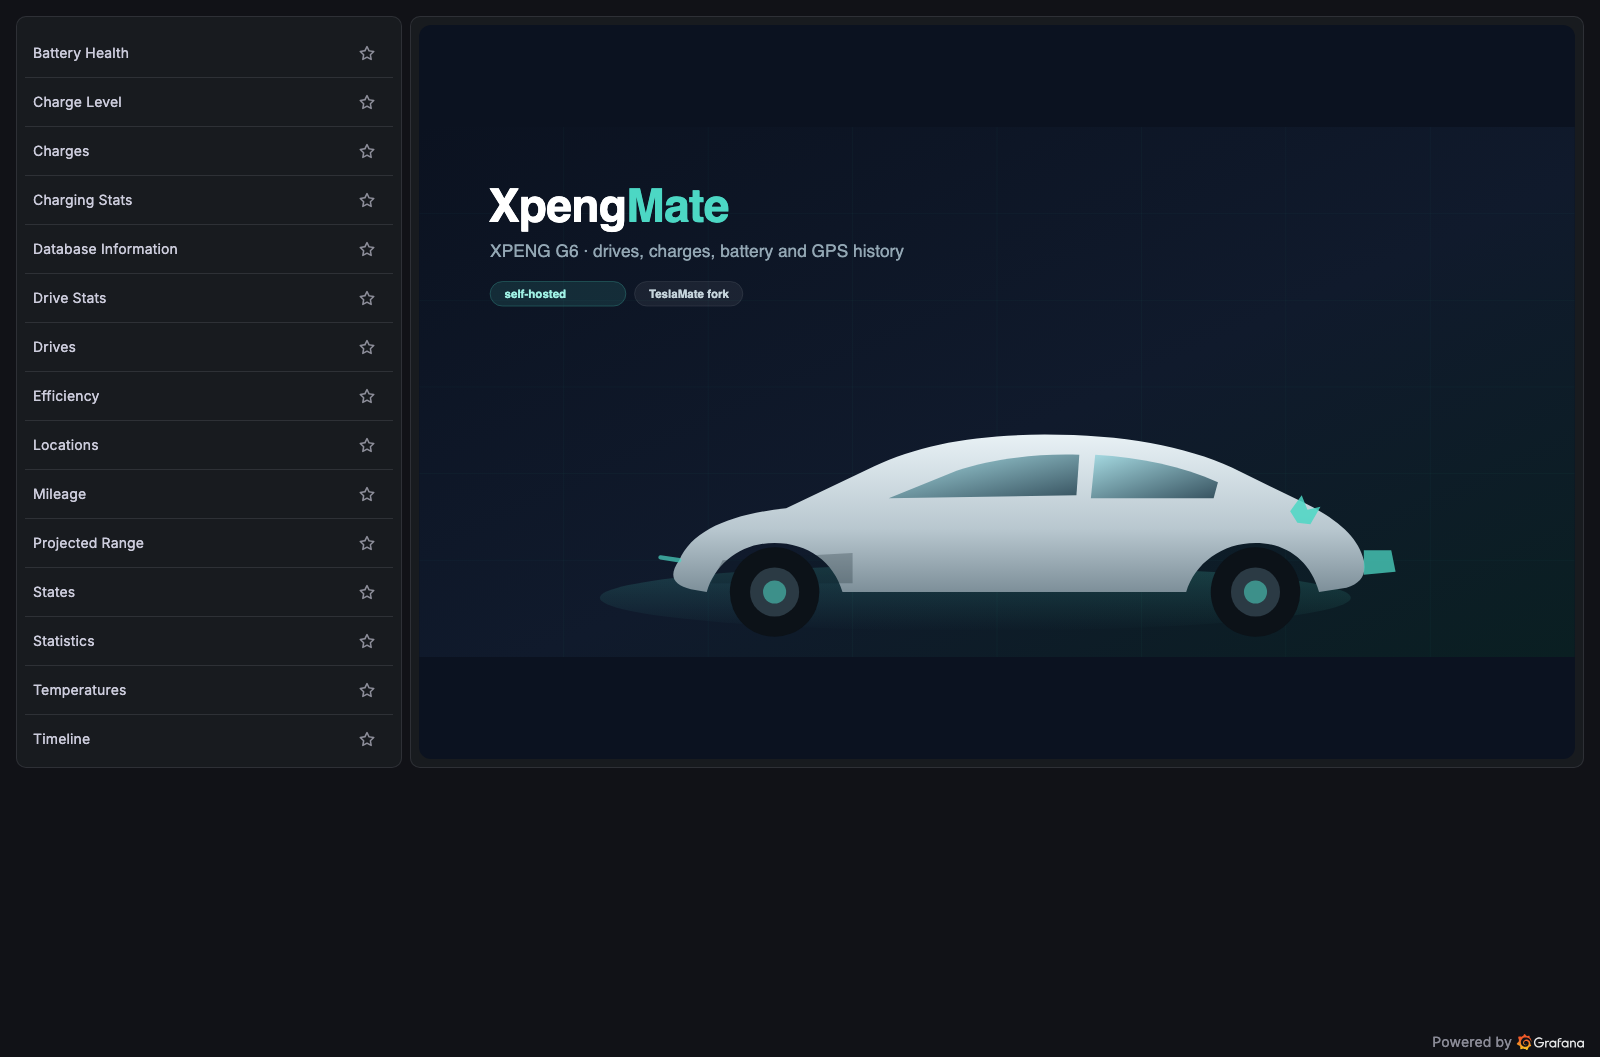
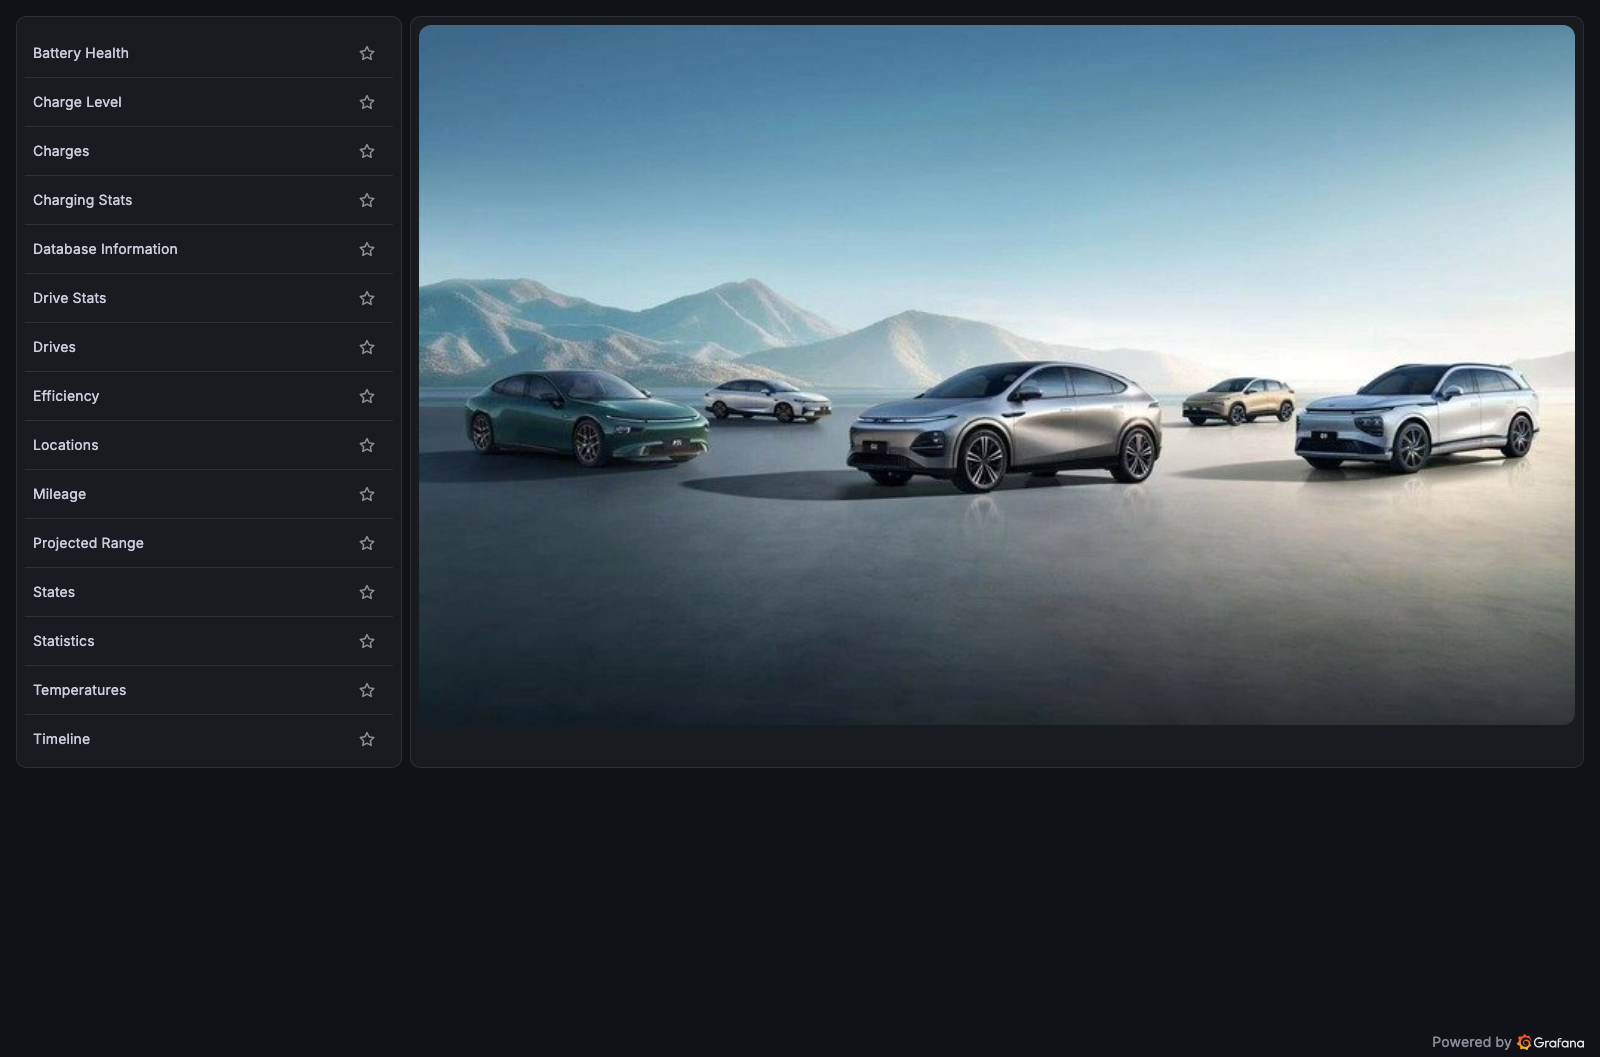
grafana: use the supplied XPENG line-up photo as the Home dashboard background
Shipped as a Grafana static asset (/public/img/xpengmate-hero.jpg) and
referenced with a root-relative URL, so the dashboard is host-independent and
the image travels with the image build. The generated SVG hero is removed.

diff --git a/README.md b/README.md
@@ -188,7 +188,9 @@ is picked automatically.
 
 The dashboards are TeslaMate's, rebranded: folder names, panel descriptions, the
 Home dashboard and the datasource display name all say XpengMate, and the Home
-background is the XpengMate/XPENG hero instead of Tesla's marketing image. The
+background is the supplied XPENG line-up image instead of Tesla's marketing
+image (shipped as a Grafana static asset at `/public/img/xpengmate-hero.jpg`, so
+the dashboard references it with a host-independent URL). The
 datasource **uid stays `TeslaMate`** because every provisioned panel references
 it; only its display name changed.
 
